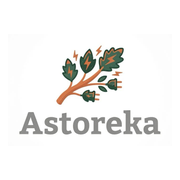
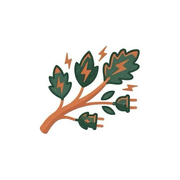
Use oak mark and add PDF back action

Changed region(s): [[0.0833, 0.25, 0.8889, 0.75]]

diff --git a/src/routes/index.tsx b/src/routes/index.tsx
@@ -125,7 +125,7 @@ const MOBILE_PRIMARY_SECTIONS: MainSection[] = ["inicio", "trabajos", "agenda"];
 const MOBILE_COMPACT_LABELS: Partial<Record<MainSection, string>> = {
   inicio: "Inicio",
 };
-const ASTOREKA_LOGO_SRC = "/brand/astoreka-logo-cropped.jpg";
+const ASTOREKA_LOGO_SRC = "/brand/astoreka-oak-logo.jpg";
 
 const STATUS_CLASS: Record<WorkStatus, string> = {
   pendiente_datos: "border-slate-300 bg-slate-100 text-slate-700",
@@ -1460,11 +1460,14 @@ function Index() {
   <title>${escapeHtml(title)}</title>
   <style>
     body { font-family: Inter, Arial, sans-serif; color: #18252b; margin: 40px; line-height: 1.45; }
+    .document-actions { display: flex; gap: 10px; margin-bottom: 24px; }
+    button { border: 1px solid #0f766e; border-radius: 6px; background: #0f766e; color: #fff; cursor: pointer; font: inherit; padding: 9px 13px; }
+    button.secondary { background: #fff; color: #0f766e; }
     header { display: flex; justify-content: space-between; align-items: flex-start; gap: 32px; border-bottom: 2px solid #0f766e; padding-bottom: 18px; margin-bottom: 28px; }
     h1 { margin: 0; font-size: 28px; }
     h2 { margin: 26px 0 10px; font-size: 16px; }
     .brand { display: flex; align-items: center; gap: 18px; }
-    .brand-logo { width: 150px; height: auto; display: block; }
+    .brand-logo { width: 92px; height: auto; display: block; }
     .muted { color: #5f6f75; }
     .box { border: 1px solid #d7e2e4; border-radius: 8px; padding: 14px; margin: 12px 0; }
     table { width: 100%; border-collapse: collapse; margin-top: 12px; }
@@ -1473,11 +1476,14 @@ function Index() {
     .totals { margin-left: auto; width: 320px; }
     .totals div { display: flex; justify-content: space-between; padding: 6px 0; }
     .total { font-size: 20px; font-weight: 700; color: #0f766e; }
-    @media print { button { display: none; } body { margin: 24px; } }
+    @media print { .document-actions { display: none; } body { margin: 24px; } }
   </style>
 </head>
 <body>
-  <button onclick="window.print()">Imprimir / guardar PDF</button>
+  <div class="document-actions">
+    <button class="secondary" onclick="window.opener?.focus(); window.close(); history.back()">Volver a la app</button>
+    <button onclick="window.print()">Imprimir / guardar PDF</button>
+  </div>
   <header>
     <div class="brand">
       <img class="brand-logo" src="${ASTOREKA_LOGO_SRC}" alt="Astoreka" />
